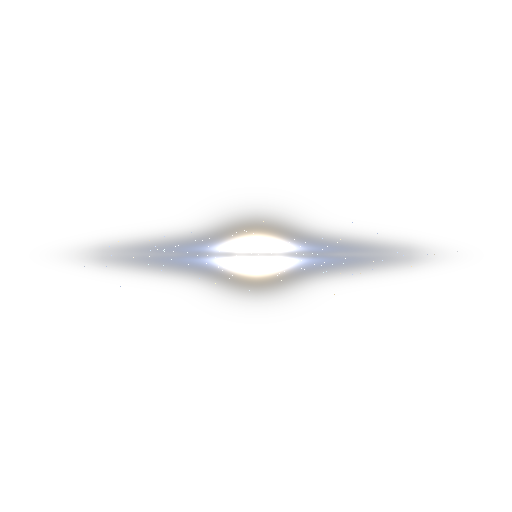
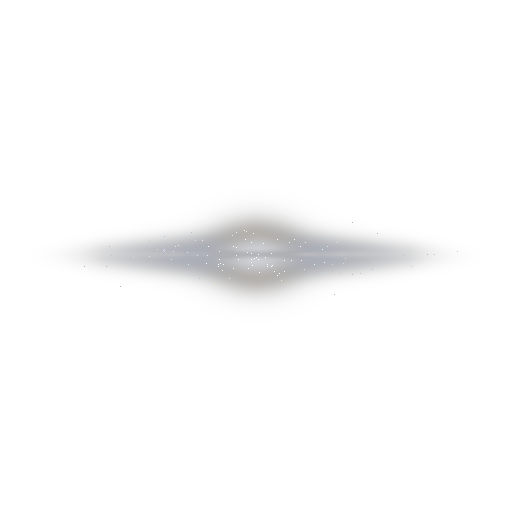
은하수 3색 혼합 + 은하 '노란 페인트' 코어 제거
- 은하수 밴드: 은청 바탕에 노이즈로 파랑/황금 색 구역이 자연스럽게
  섞임(중심 매듭은 항상 황금) — 단색 은띠보다 돋보이는 색감
- 은하 4종 재생성: 노란 페인트 원판의 원인(clamp 포화 평탄면)을
  Soft(1-exp(-x)) 하이라이트 압축으로 제거 + 코어 안쪽 백열(흰색)
  그라데이션(흰 중심→노란 벌지→파란 팔) + 강도/머티리얼 알파 하향

Changed region(s): [[0.375, 0.4375, 0.625, 0.5625]]

diff --git a/CLAUDE.md b/CLAUDE.md
@@ -33,6 +33,7 @@
 - **Space.unity**(빌드 등록·로비/레벨선택 '우주' — ⚠NetDebugPanel.MapNames/MapScenes와 LevelSelect.levels(스크립트 기본값+**StartScreen 씬 직렬화 배열**) 세 곳에 등록돼 있음): **무중력 은하 속** 맵. 스카이박스=`Custom/SpaceSkybox`(절차 별 2겹 셀해시+큰별 레이어+네뷸라 그라데이션, 텍스처 없음) + **나선은하 쿼드 2장**(`Assets/Guide/GalaxyTex.png` 절차 생성: 2팔 로그나선+코어+별반점, `Custom/AdditiveTex` 가산 — 대형 (600,350,1600)/scale1400·소형) + **네뷸라 빌보드 7장**(NebulaTex 방사+노이즈, 마젠타/시안 틴트) + **소행성 90개**(기존 rock0~6 메시 재활용, `AsteroidMat`, MeshCollider 있음 — 전방 +Z 원뿔 코리도어 70%(z45~640, 벌어지는 산개)+전역 30%, 스폰 반경 40 클리어, 최소 간격 28, 거대 5개 scale20~34) + **별 먼지 스피어 120개**(StarSpeckMat 언릿 흰색, 콜라X — 이동 패럴랙스). 조명: 별빛 Directional 0.85 + 보라 필 0.28, ambient Trilight 짙은 파랑, fog 없음, 카메라 far 5000. 씬 전체 절차 생성(RunCommand, seed 20260707).
 - ★**SquidMode(우주오징어)** `Assets/Scripts/SquidMode.cs`(Table.prefab 루트 — 기능 패턴: 평소 active=false, ICheatUnlockable): **다리 신축 키(FL=E/FR=Y/BL=O/BR=])를 누르면 그 다리 발끝에서 분사** — `legAb.AddForceAtPosition(meshUp×thrustForce, 발끝)`(FixedUpdate, 발→피벗 방향=로켓 추진). 다리를 스윙/스핀으로 조준하고 뿜는 조작(무중력이라 다리 휘두르면 몸도 반작용 회전 — 의도된 오징어 감각). active 시 **전 바디 useGravity=false + linearDamping=driftDamping(0.10)**, 끄면 원복. 분사 파티클=런타임 생성(`MakeJet`, 월드 시뮬 — 궤적에 김 남음, `SquidJet.mat`=AdditiveTex+JetDot, 버텍스컬러 페이드 지원). **해금 방식 미정 — 임시로 SpaceStage.Start가 씬 입장 시 unlocked+active 부여** + GiraffeMode.locked=true(같은 키 충돌 방지). 멀티: ApplyGuestMode가 SquidMode 끔(호스트 물리 전용) — ⚠게스트 분사 이펙트 동기화 TODO. 튜닝: thrustForce(12/다리 — 4다리 2s에 11.4m/s), driftDamping(0.10 — 표류 감쇠, 0=순수 관성).
 - **ArtSceneReset 우주 대응 필드**(기본값=기존 동작): `watchdogMaxDist`(600, 우주 인스턴스 1500)/`watchdogMinY`(-150, 우주 -1500 — 무중력 표류를 추락 오판 방지)/`keepYIfNoGround`(false, 우주 true — '1' 리셋 시 지면 없으면 **그 높이에서 자세만** 복원). GroundYAt에 out found 추가.
+- ★**2026-07-08 색 보정(사용자 "은하수에 파랑/노랑 자연스럽게 + 은하 노란 페인트 같은 부분 제거")**: ① 은하수 밴드 3색 혼합 — 은청 바탕(0.80,0.85,1)에 노이즈(hue=noise3(d*3))로 **파랑 구역(0.52,0.70,1)/황금 구역(1,0.86,0.58)** 패치가 섞임(+중심 매듭은 항상 황금). ② 은하 텍스처 4종 전부 재생성 — ★**'노란 페인트 원판'의 원인 = 넓은 영역이 clamp01로 평평하게 포화** → **Soft(x)=1-exp(-x) 하이라이트 소프트 압축** + **코어 가장 안쪽은 백열(흰색)로 lerp**(실제 은하: 흰 중심→노란 벌지→파란 팔) + 강도 하향(core 1.5→1.05 등) + 머티리얼 알파 0.95→0.82. 밝은 절차 광원 텍스처엔 이 패턴(Soft+백열 중심) 상시 적용할 것.
 - ★**2026-07-08 은하 다양화 + 웅장한 은하수**(사용자 "다양한 은하 형태 + 크고 눈물나게 아름다운 은하수"): ① 은하 텍스처 4종 — 나선(GalaxyTex)/**막대나선**(GalaxyBarred: 길쭉한 따뜻한 막대+막대 끝에서 시작하는 파란 팔)/**타원**(GalaxyEllip: 늙은 별들의 황금 타원광, de Vaucouleurs식 소프트 폴오프)/**측면**(GalaxyEdge: 얇은 원반+중앙 벌지+암흑 성운 골) + 각 Mat(AdditiveTex). 씬 은하 6개: Main=나선(대형)·Small=막대·Far1/4=타원·Far2/3=측면. ② **은하수 아치 v3**(SpaceSkybox): _CoreDir(은하 중심 방향, 은하면 투영) 신설 — **은청색(0.76,0.83,1) 별의 강 + 중심 매듭만 황금**(pow(ca,12)로 압축 — ⚠ca² 등 넓은 지수는 밴드 전체가 카키색 안개가 됨), 암흑 성운 골(rift, 노이즈로 굽이침), 잔별 밀도 밴드/중심부 급증(fineDens→0.915), 컴팩트 광휘(bulge2=pow(ca,20)). ⚠튜닝 교훈 3(스크린샷 5회 반복): ⑴ bandWide 헤일로 0.22+0.35는 하늘 전체가 베이지 안개 — 0.05+0.09로 ⑵ **_BandDir(평면 법선)이 시선과 비슷하면 아치가 아니라 '넓은 안개면'으로 보임** — 법선을 시선과 수직(0.88,0.42,0.08)으로 해야 대각선 아치 ⑶ 황금빛 범위는 최대한 압축(지수 12+). 최종: _BandIntensity 0.40/_BandWidth 0.11/_CoreDir(-0.05,0.30,0.95).
 - ★**2026-07-08 비주얼 리워크(사용자 "실제 은하처럼·경계선 제거·얼룩 제거·심플한 별·은하수")**: ① 스카이박스 v2 — 네뷸라 색 워시 삭제, 거의 순검정 + **별 4겹(색온도: 파랑↔흰↔노랑, hash 틴트)** + **은하수 밴드**(great circle 가우시안, ⚠패치/얼룩 방식은 연기처럼 보여 폐기 — **매끈한 젖빛 0.09 + 밴드 근처 잔별 밀도 급증**(fineDens 0.988→0.935)이 정답). ② GalaxyTex v2 — 경계선 원인이던 'base glow 플로어' 제거, 넓은 소멸 커브(ek, r0.95에서 완전 0), 노란 코어+파란 팔, **팔·외곽이 픽셀 해시 '별 알갱이'로 분해**(바깥=파랑/안쪽=노랑 — 빛나는 테두리 대신 별 무리). ⚠별 알갱이엔 PerlinNoise 금지(뭉개짐) — 픽셀 화이트노이즈 해시 사용. ③ 씬: Nebulae 빌보드 7장 삭제, 필라이트 보라→청백 0.22, 앰비언트 보라기 축소, 별 먼지 +200(흰/파랑/노랑 3색 SpeckBlue/Warm.mat, 먼 것일수록 크게), 원거리 소형 은하 2개 추가(Galaxy_Far1/2 — 깊이감). 스크린샷 4회 반복으로 확정, 썸네일 갱신.
 - **검증(플레이)**: 무중력 부유(2s dY -0.08)✓ 분사 4개 생성✓ 수직 분사 +11.4m/s✓ 조준 분사(다리 -90 후) 새 방향 8.3m/s·16.9m 이동✓ '1' 리셋 dY 0.29·tilt 1.00✓ finite·에러0✓. 비주얼: 은하/네뷸라/소행성/테이블 스크린샷 확인, 썸네일 `Resources/Thumbs/space.png`.
